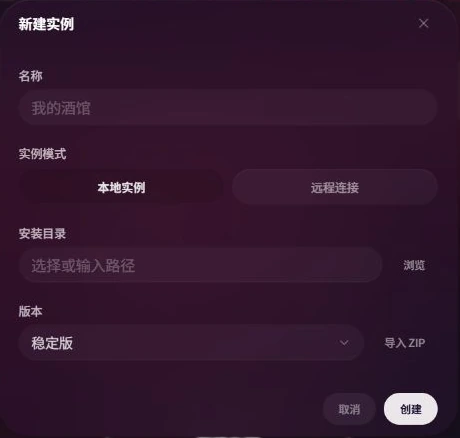
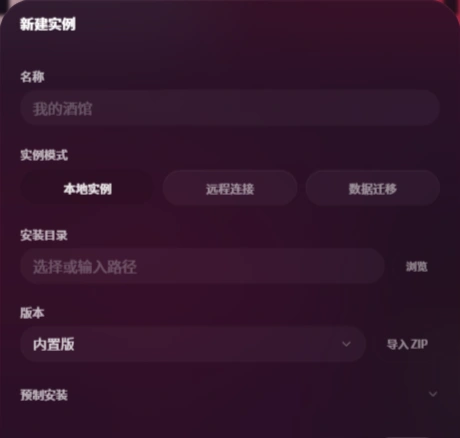
feat: expand onboarding guide to 7 steps with password & migration; rename 预制 to 预设 throughout
- OnboardingGuide.tsx: refine 7-step guide (新建实例/实例卡片/密码保护/数据迁移/控制台/背景主题/APP设置)
- Rename 主题预设 label to 预设安装 in step 1 view 3
- Add new onboarding webps: instance-card-locked, password-unlock, storage-migrate
- src/plugin.ts: 安装预制扩展 -> 安装预设扩展
- PreinstallOptions.tsx: 预制安装 -> 预设安装
- WhatsNewModal.tsx: update changelog text to 预设安装
- tests: update all test button name assertions to 预设安装
- frontend-dist: sync with latest vite build
- frontend.lock.json: updated

diff --git a/web/capacitor-ui/src/components/onboarding/OnboardingGuide.tsx b/web/capacitor-ui/src/components/onboarding/OnboardingGuide.tsx
@@ -49,7 +49,7 @@ const guideSteps: GuideStep[] = [
         imageClass: "is-panel",
       },
       {
-        label: "主题预设",
+        label: "预设安装",
         description: "创建本地实例时可启用 SC Bordeaux，安装完成后会自动应用主题预设与配套壁纸。",
         image: "./onboarding/theme-preset-open.webp",
         imageAlt: "新建实例面板中的 SC Bordeaux 主题预设",
@@ -70,6 +70,37 @@ const guideSteps: GuideStep[] = [
     ],
   },
   {
+    title: "密码保护",
+    views: [
+      {
+        label: "私密锁定",
+        description: "开启访问密码的实例卡片带有专属保险锁标记，处于受保护状态，防止未授权访问。",
+        image: "./onboarding/instance-card-locked.webp",
+        imageAlt: "带有保险锁标记的私密实例卡片",
+        imageClass: "is-card",
+      },
+      {
+        label: "本地解锁",
+        description: "启动或打开受保护实例时只需输入本地密码即可解锁，纯本地离线校验，无需联网验证。",
+        image: "./onboarding/password-unlock.webp",
+        imageAlt: "本地免联网密码解锁面板",
+        imageClass: "is-panel",
+      },
+    ],
+  },
+  {
+    title: "数据迁移",
+    views: [
+      {
+        label: "无损迁移",
+        description: "支持将实例完整搬迁至新目录或软件默认路径。跨卷迁移完整保留原数据并严格校验，数据零丢失。",
+        image: "./onboarding/storage-migrate.webp",
+        imageAlt: "单实例存储路径无损重定位与迁移面板",
+        imageClass: "is-panel",
+      },
+    ],
+  },
+  {
     title: "控制台",
     views: [
       {
@@ -80,7 +111,7 @@ const guideSteps: GuideStep[] = [
         imageClass: "is-toolbar",
       },
       {
-        label: "展开后",
+        label: "实时日志",
         description: "下载、安装、启动与错误信息会保留在这里，便于确认实例当前所处的阶段。",
         image: "./onboarding/terminal-open.webp",
         imageAlt: "展开后的运行控制台",

diff --git a/web/capacitor-ui/src/components/modals/WhatsNewModal.tsx b/web/capacitor-ui/src/components/modals/WhatsNewModal.tsx
@@ -126,7 +126,7 @@ export const WhatsNewModal: React.FC<WhatsNewModalProps> = ({
           >
             <div className="flex items-center justify-between mb-1.5">
               <span className={cn("text-[13px] font-semibold tracking-tight", isLight ? "text-[#1a1625]/90" : "text-white/90")}>
-                新更新：可选预制安装与受控外链
+                新更新：可选预设安装与受控外链
               </span>
               <span className={cn("text-[10px] font-mono", isLight ? "text-[#1a1625]/35" : "text-white/30")}>
                 02

diff --git a/src/plugin.ts b/src/plugin.ts
@@ -477,7 +477,7 @@ async function provisionInstance(opts: any, context: OperationContext): Promise<
       log(companionPresetTransaction.applied ? '已应用 SC Bordeaux 主题预设' : 'SC Bordeaux 主题预设已就绪');
     }
     if (opts.preinstall?.extensionIds.length) {
-      progress(83, '安装预制扩展');
+      progress(83, '安装预设扩展');
       extensionTransaction = await installPreselectedExtensions(targetServerDir, opts.preinstall, {
         signal: context.signal,
         operationId: context.operationId,

diff --git a/web/capacitor-ui/src/components/instance/PreinstallOptions.tsx b/web/capacitor-ui/src/components/instance/PreinstallOptions.tsx
@@ -28,7 +28,7 @@ export function PreinstallOptions({
           isLight ? "text-[#1a1625]/70" : "text-white/70",
         )}
       >
-        <span>预制安装</span>
+        <span>预设安装</span>
         <ChevronDown className={cn(
           "w-3.5 h-3.5 flex-shrink-0 opacity-40 transition-transform duration-200 ease-[cubic-bezier(0.22,1,0.36,1)]",
           expanded && "rotate-180",
